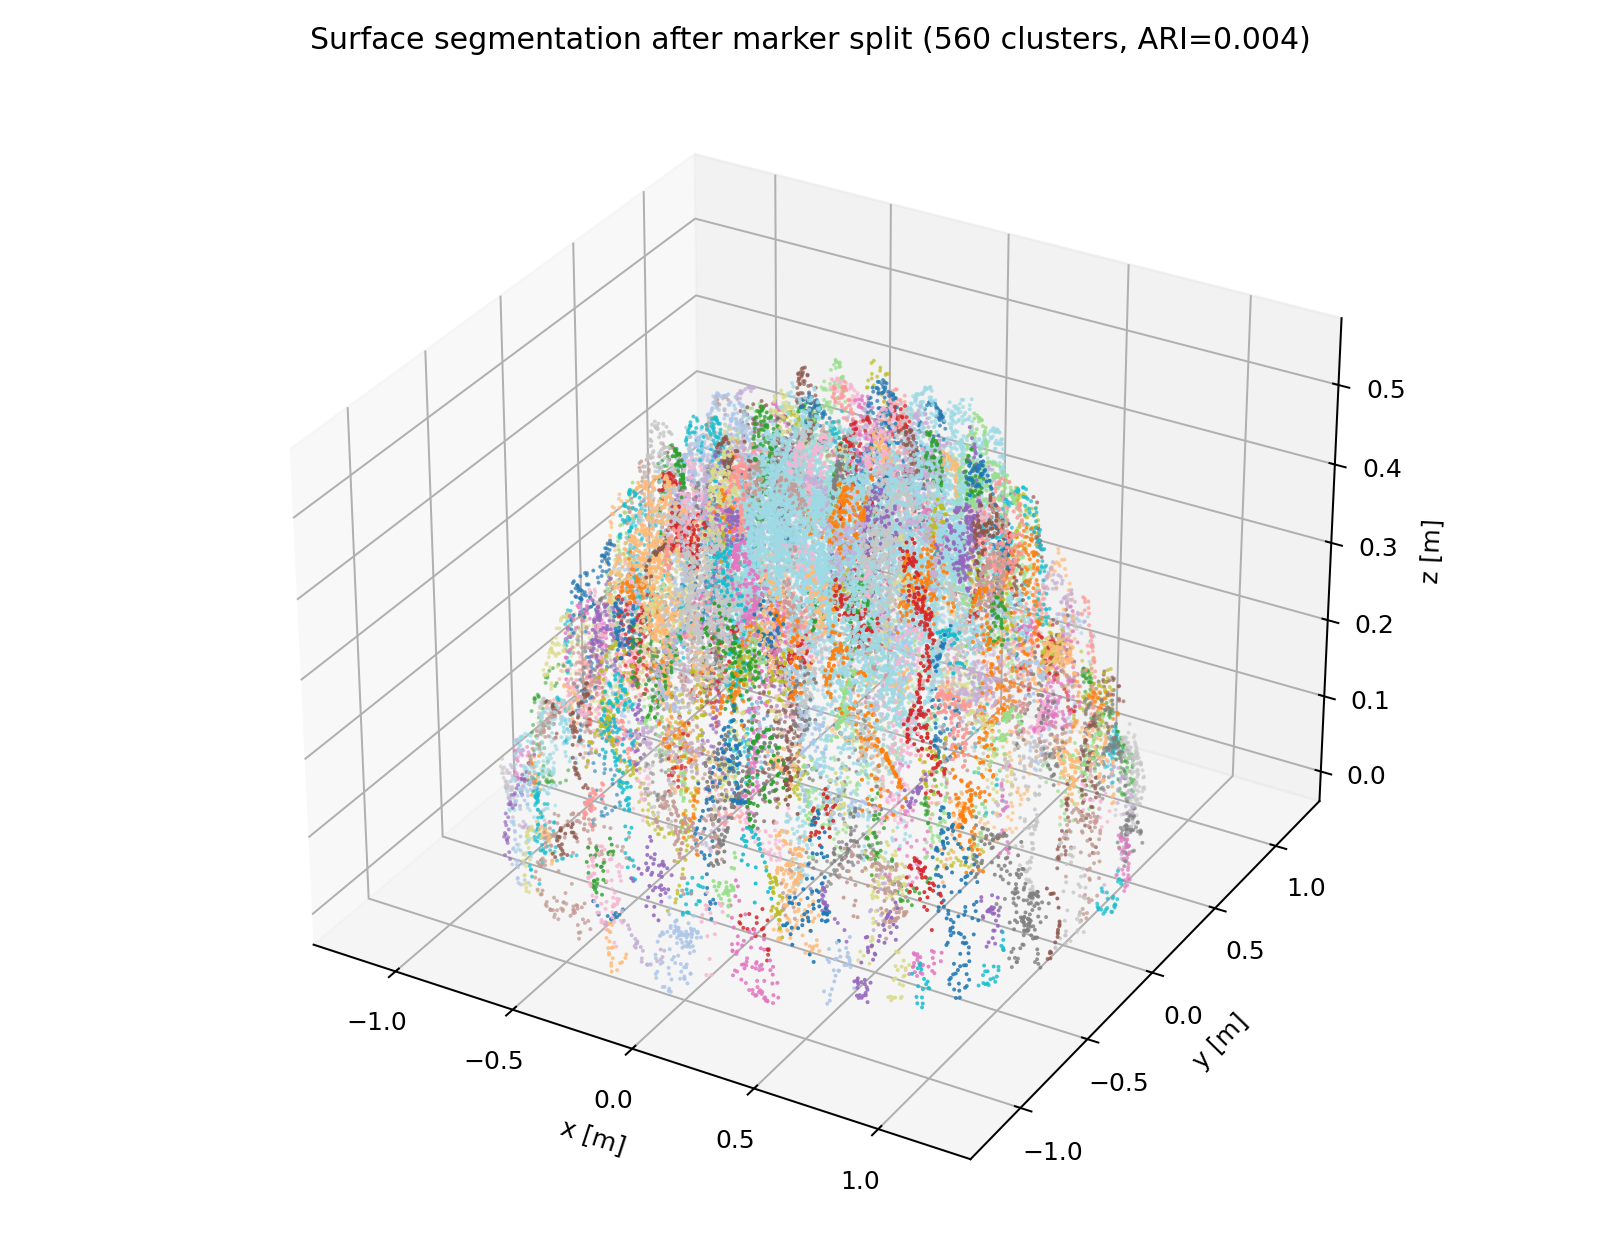
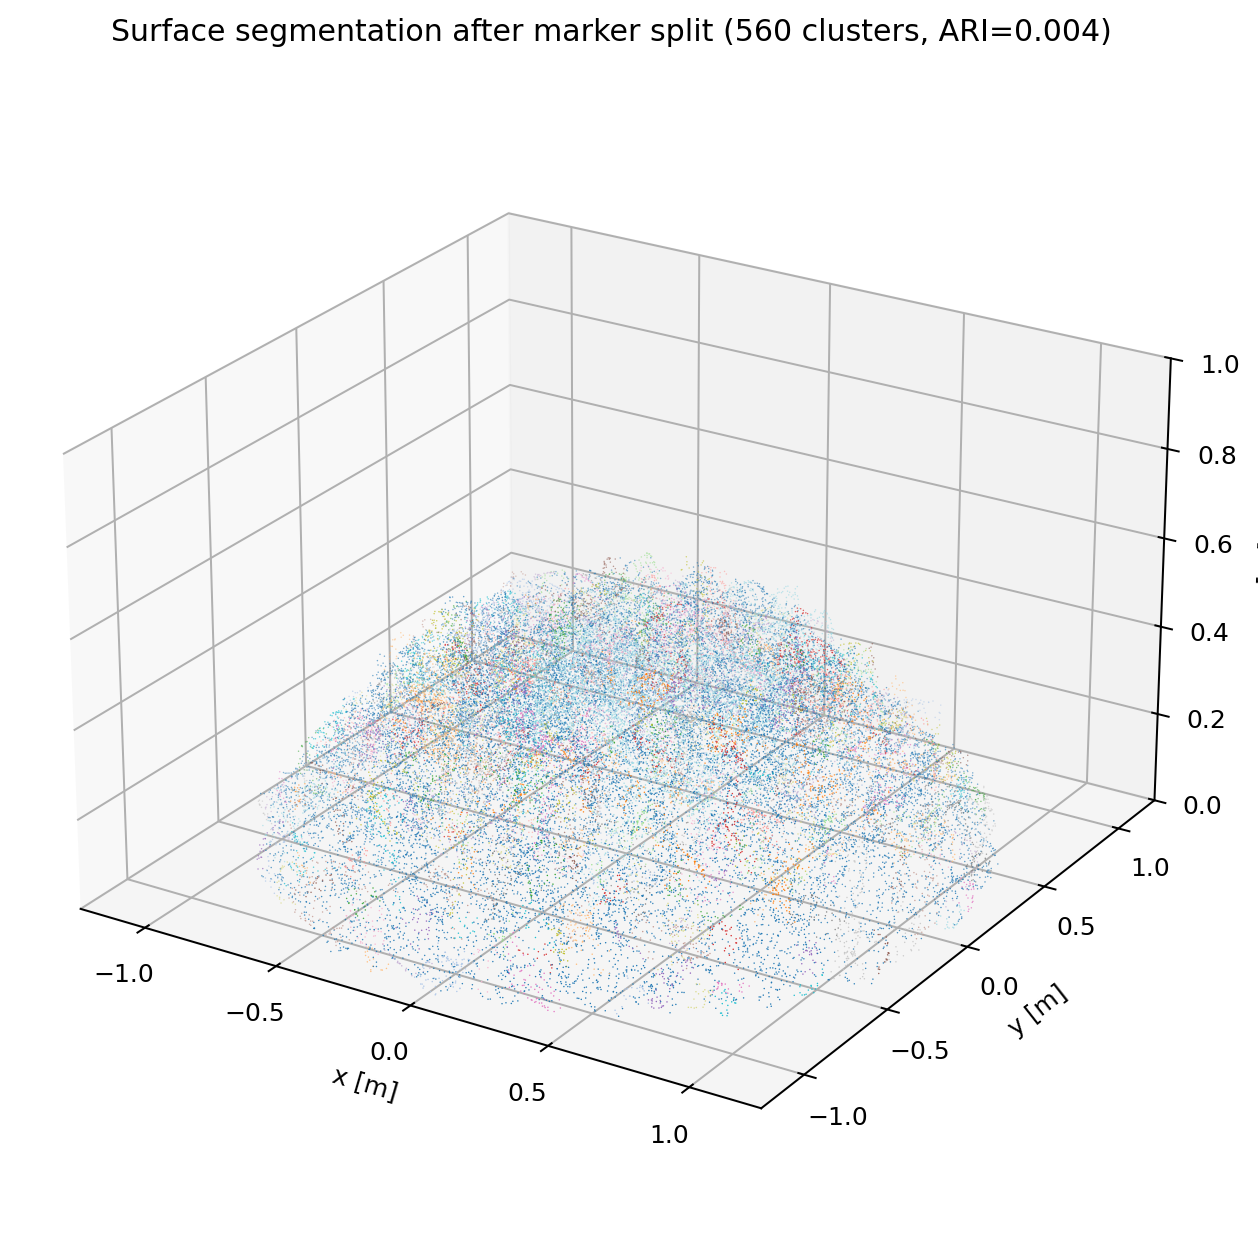
Add exterior surface-envelope scan workflow

diff --git a/scripts/make_exterior_scan_preview_figure.py b/scripts/make_exterior_scan_preview_figure.py
@@ -1,0 +1,148 @@
+from __future__ import annotations
+
+from pathlib import Path
+
+import matplotlib.pyplot as plt
+import numpy as np
+
+
+ROOT = Path(__file__).resolve().parents[1]
+FULL_PATH = ROOT / "data" / "scanned_pointclouds" / "synthetic_rockpile_full_labelled_pointcloud.npz"
+SCAN_PATH = ROOT / "data" / "scanned_pointclouds" / "synthetic_rockpile_exterior_only_scan.npz"
+OUT_PATH = ROOT / "outputs" / "figures" / "synthetic_rockpile_exterior_scan_preview.png"
+SLICE_HALF_WIDTH_M = 0.08
+AXIS_HALF_WIDTH_M = 1.25
+Z_AXIS_MAX_M = 1.25
+
+
+def style_axes(ax) -> None:
+    ax.set_xlim(-AXIS_HALF_WIDTH_M, AXIS_HALF_WIDTH_M)
+    ax.set_ylim(-AXIS_HALF_WIDTH_M, AXIS_HALF_WIDTH_M)
+    ax.set_zlim(0.0, Z_AXIS_MAX_M)
+    ax.set_xticks([-1.0, -0.5, 0.0, 0.5, 1.0])
+    ax.set_yticks([-1.0, -0.5, 0.0, 0.5, 1.0])
+    ax.set_zticks([0.0, 0.5, 1.0])
+    ax.set_box_aspect((2.0 * AXIS_HALF_WIDTH_M, 2.0 * AXIS_HALF_WIDTH_M, Z_AXIS_MAX_M))
+    ax.view_init(elev=23, azim=-58)
+    ax.set_xlabel("x [m]")
+    ax.set_ylabel("y [m]")
+    ax.set_zlabel("z [m]")
+
+
+def style_slice_axes(ax) -> None:
+    ax.set_xlim(-AXIS_HALF_WIDTH_M, AXIS_HALF_WIDTH_M)
+    ax.set_ylim(0.0, Z_AXIS_MAX_M)
+    ax.set_xticks([-1.0, -0.5, 0.0, 0.5, 1.0])
+    ax.set_yticks([0.0, 0.5, 1.0])
+    ax.set_aspect("equal", adjustable="box")
+    ax.grid(True, color="#D0D5DA", linewidth=0.55)
+    ax.set_xlabel("y [m]")
+    ax.set_ylabel("z [m]")
+
+
+def main() -> None:
+    full = np.load(FULL_PATH)
+    scan = np.load(SCAN_PATH)
+
+    points = full["points_xyz"]
+    labels = full["fragment_ids"]
+    scan_points = scan["points_xyz"]
+    scan_labels = scan["fragment_ids"]
+    retained_full_indices = np.unique(scan["exterior_source_indices"])
+    retained_mask = np.zeros(len(points), dtype=bool)
+    retained_mask[retained_full_indices] = True
+
+    rng = np.random.default_rng(15)
+    idx_full = rng.choice(len(points), size=min(45_000, len(points)), replace=False)
+    idx_scan = rng.choice(len(scan_points), size=min(45_000, len(scan_points)), replace=False)
+
+    full_slice = np.abs(points[:, 0]) <= SLICE_HALF_WIDTH_M
+    scan_slice = np.abs(scan_points[:, 0]) <= SLICE_HALF_WIDTH_M
+    retained_slice = full_slice & retained_mask
+    removed_slice = full_slice & ~retained_mask
+    idx_removed = np.where(removed_slice)[0]
+    idx_retained = np.where(retained_slice)[0]
+    idx_scan_slice = np.where(scan_slice)[0]
+    if len(idx_removed) > 12000:
+        idx_removed = rng.choice(idx_removed, 12000, replace=False)
+    if len(idx_retained) > 12000:
+        idx_retained = rng.choice(idx_retained, 12000, replace=False)
+    if len(idx_scan_slice) > 12000:
+        idx_scan_slice = rng.choice(idx_scan_slice, 12000, replace=False)
+
+    fig = plt.figure(figsize=(12.2, 8.0), dpi=180)
+    ax1 = fig.add_subplot(2, 2, 1, projection="3d")
+    ax1.scatter(points[idx_full, 0], points[idx_full, 1], points[idx_full, 2], c=labels[idx_full], s=0.35, cmap="tab20", linewidths=0)
+    ax1.set_title("Original full labelled point cloud", pad=8)
+    style_axes(ax1)
+
+    ax2 = fig.add_subplot(2, 2, 2, projection="3d")
+    ax2.scatter(
+        scan_points[idx_scan, 0],
+        scan_points[idx_scan, 1],
+        scan_points[idx_scan, 2],
+        c=scan_labels[idx_scan],
+        s=0.45,
+        cmap="tab20",
+        linewidths=0,
+    )
+    ax2.set_title("Exterior-only scan after occlusion filtering", pad=8)
+    style_axes(ax2)
+
+    ax3 = fig.add_subplot(2, 2, 3)
+    ax3.scatter(
+        points[idx_retained, 1],
+        points[idx_retained, 2],
+        c="#86A8C8",
+        s=1.0,
+        alpha=0.45,
+        linewidths=0,
+        label="retained exterior source samples",
+    )
+    ax3.scatter(
+        points[idx_removed, 1],
+        points[idx_removed, 2],
+        c="#D84A3A",
+        s=1.8,
+        alpha=0.75,
+        linewidths=0,
+        label="removed hidden/interior source samples",
+    )
+    ax3.set_title(f"Half-cut y-z section at x=0 before filtering (|x| <= {SLICE_HALF_WIDTH_M:.2f} m)")
+    style_slice_axes(ax3)
+    ax3.legend(loc="upper right", fontsize=7, frameon=True)
+
+    ax4 = fig.add_subplot(2, 2, 4)
+    ax4.scatter(
+        scan_points[idx_scan_slice, 1],
+        scan_points[idx_scan_slice, 2],
+        c=scan_labels[idx_scan_slice],
+        s=1.2,
+        cmap="tab20",
+        linewidths=0,
+    )
+    ax4.set_title("Same half-cut section after exterior-only filtering")
+    style_slice_axes(ax4)
+
+    retained_fraction = retained_full_indices.size / len(points)
+    fig.text(
+        0.50,
+        0.022,
+        (
+            "All panels use matched metre scales. Bottom half-cut sections verify the filtering: red full-cloud source "
+            f"samples are not retained by the exterior scan ({retained_fraction:.1%} retained overall)."
+        ),
+        ha="center",
+        va="bottom",
+        fontsize=8,
+        color="#4B5563",
+    )
+    fig.subplots_adjust(left=0.055, right=0.985, top=0.93, bottom=0.075, wspace=0.12, hspace=0.28)
+    OUT_PATH.parent.mkdir(parents=True, exist_ok=True)
+    fig.savefig(OUT_PATH, bbox_inches="tight")
+    plt.close(fig)
+    print(f"saved: {OUT_PATH}")
+
+
+if __name__ == "__main__":
+    main()

diff --git a/scripts/regenerate_exterior_scan.py b/scripts/regenerate_exterior_scan.py
@@ -1,0 +1,112 @@
+from __future__ import annotations
+
+import sys
+from pathlib import Path
+
+import numpy as np
+import pandas as pd
+
+
+ROOT = Path(__file__).resolve().parents[1]
+sys.path.insert(0, str(ROOT / "src"))
+
+from io_utils.export_pointcloud import save_ascii_ply, save_labelled_npz
+from scanning.occlusion_model import exterior_points_from_viewpoints
+from scanning.scan_noise import add_range_noise
+
+
+SCAN_DIR = ROOT / "data" / "scanned_pointclouds"
+TABLE_DIR = ROOT / "outputs" / "tables"
+
+FULL_PATH = SCAN_DIR / "synthetic_rockpile_full_labelled_pointcloud.npz"
+OUT_NPZ = SCAN_DIR / "synthetic_rockpile_exterior_only_scan.npz"
+OUT_PLY = SCAN_DIR / "synthetic_rockpile_exterior_only_scan.ply"
+
+PARAMS = {
+    "angular_resolution_deg": 0.22,
+    "height_envelope_grid_m": 0.035,
+    "height_envelope_tolerance_m": 0.030,
+    "density_keep_fraction": 0.82,
+    "range_noise_sigma_m": 0.0015,
+    "random_seed": 20260606,
+}
+
+
+def main() -> None:
+    full = np.load(FULL_PATH)
+    points = full["points_xyz"]
+    labels = full["fragment_ids"]
+    center = points.mean(axis=0)
+    span = points.max(axis=0) - points.min(axis=0)
+    radius = float(max(span[0], span[1]) * 1.8 + 0.8)
+    z_mid = float(center[2] + 0.35 * span[2])
+    z_top = float(points[:, 2].max() + radius)
+    viewpoints = np.array(
+        [
+            [center[0] + radius, center[1], z_mid],
+            [center[0] - radius, center[1], z_mid],
+            [center[0], center[1] + radius, z_mid],
+            [center[0], center[1] - radius, z_mid],
+            [center[0], center[1], z_top],
+        ],
+        dtype=float,
+    )
+
+    exterior_points, exterior_labels, exterior_indices = exterior_points_from_viewpoints(
+        points,
+        labels,
+        viewpoint_xyz_list=[vp for vp in viewpoints],
+        angular_resolution_deg=PARAMS["angular_resolution_deg"],
+        height_envelope_grid_m=PARAMS["height_envelope_grid_m"],
+        height_envelope_tolerance_m=PARAMS["height_envelope_tolerance_m"],
+    )
+    rng = np.random.default_rng(PARAMS["random_seed"])
+    n_keep = max(1, int(len(exterior_points) * PARAMS["density_keep_fraction"]))
+    keep_indices = rng.choice(len(exterior_points), size=n_keep, replace=False)
+    reduced_points = exterior_points[keep_indices]
+    reduced_labels = exterior_labels[keep_indices]
+    reduced_indices = exterior_indices[keep_indices]
+    reduced_points = add_range_noise(
+        reduced_points,
+        viewpoint_xyz=viewpoints[0],
+        sigma_m=PARAMS["range_noise_sigma_m"],
+        random_seed=PARAMS["random_seed"] + 1,
+    )
+
+    save_labelled_npz(
+        OUT_NPZ,
+        reduced_points,
+        reduced_labels,
+        extra={
+            "exterior_source_indices": reduced_indices.astype(np.int64),
+            "viewpoints_xyz": viewpoints.astype(float),
+            "angular_resolution_deg": np.array([PARAMS["angular_resolution_deg"]], dtype=float),
+            "height_envelope_grid_m": np.array([PARAMS["height_envelope_grid_m"]], dtype=float),
+            "height_envelope_tolerance_m": np.array([PARAMS["height_envelope_tolerance_m"]], dtype=float),
+            "scan_filter_version": np.array(["angular_nearest_plus_xy_height_envelope"]),
+        },
+    )
+    save_ascii_ply(OUT_PLY, reduced_points, reduced_labels)
+
+    summary = pd.DataFrame(
+        [
+            {
+                "n_full_points": int(len(points)),
+                "n_exterior_points_before_density_reduction": int(len(exterior_points)),
+                "n_final_scan_points": int(len(reduced_points)),
+                "n_fragments_full_cloud": int(len(np.unique(labels))),
+                "n_fragments_visible_after_exterior_filter": int(len(np.unique(exterior_labels))),
+                "n_fragments_final_scan": int(len(np.unique(reduced_labels))),
+                **PARAMS,
+                "scan_filter_version": "angular_nearest_plus_xy_height_envelope",
+            }
+        ]
+    )
+    TABLE_DIR.mkdir(parents=True, exist_ok=True)
+    summary.to_csv(TABLE_DIR / "exterior_scan_summary.csv", index=False)
+    print(summary.to_string(index=False))
+    print(OUT_NPZ)
+
+
+if __name__ == "__main__":
+    main()

diff --git a/src/scanning/occlusion_model.py b/src/scanning/occlusion_model.py
@@ -40,11 +40,61 @@ def keep_nearest_by_angular_bin(
     return points[keep_indices], np.asarray(labels, dtype=np.int64)[keep_indices]
 
 
+def keep_xy_height_envelope(
+    points_xyz: np.ndarray,
+    labels: np.ndarray,
+    source_indices: np.ndarray | None = None,
+    grid_resolution_m: float = 0.035,
+    z_tolerance_m: float = 0.030,
+) -> tuple[np.ndarray, np.ndarray, np.ndarray]:
+    """Keep only points close to the upper surface envelope in each XY cell.
+
+    The angular-bin model removes many line-of-sight occlusions, but a point-only
+    ray approximation can still retain samples from interior contact surfaces.
+    A photogrammetric rockpile surface is better represented by the upper
+    height envelope over the pile footprint. This filter keeps only points whose
+    z-coordinate is within ``z_tolerance_m`` of the maximum z in their XY grid
+    cell and returns the corresponding original source indices.
+    """
+
+    points = np.asarray(points_xyz, dtype=float)
+    labels_array = np.asarray(labels, dtype=np.int64)
+    if source_indices is None:
+        source_array = np.arange(len(points), dtype=np.int64)
+    else:
+        source_array = np.asarray(source_indices, dtype=np.int64)
+
+    if len(points) == 0:
+        return points, labels_array, source_array
+
+    origin_xy = points[:, :2].min(axis=0)
+    cells = np.floor((points[:, :2] - origin_xy) / float(grid_resolution_m)).astype(np.int64)
+    keys = cells[:, 0] * 10_000_000 + cells[:, 1]
+    order = np.argsort(keys, kind="mergesort")
+    sorted_keys = keys[order]
+
+    keep = np.zeros(len(points), dtype=bool)
+    start = 0
+    while start < len(order):
+        end = start + 1
+        while end < len(order) and sorted_keys[end] == sorted_keys[start]:
+            end += 1
+        idx = order[start:end]
+        z_max = float(points[idx, 2].max())
+        keep[idx] = points[idx, 2] >= z_max - float(z_tolerance_m)
+        start = end
+
+    kept = np.flatnonzero(keep)
+    return points[kept], labels_array[kept], source_array[kept]
+
+
 def exterior_points_from_viewpoints(
     points_xyz: np.ndarray,
     labels: np.ndarray,
     viewpoint_xyz_list: list[np.ndarray],
     angular_resolution_deg: float = 0.20,
+    height_envelope_grid_m: float | None = 0.035,
+    height_envelope_tolerance_m: float = 0.030,
 ) -> tuple[np.ndarray, np.ndarray, np.ndarray]:
     """Keep points visible from at least one exterior viewpoint.
 
@@ -77,4 +127,14 @@ def exterior_points_from_viewpoints(
         kept_indices.append(np.fromiter((idx for _, idx in nearest.values()), dtype=int))
 
     union_indices = np.unique(np.concatenate(kept_indices))
-    return points[union_indices], labels_array[union_indices], union_indices
+    exterior_points = points[union_indices]
+    exterior_labels = labels_array[union_indices]
+    if height_envelope_grid_m is not None:
+        return keep_xy_height_envelope(
+            exterior_points,
+            exterior_labels,
+            source_indices=union_indices,
+            grid_resolution_m=height_envelope_grid_m,
+            z_tolerance_m=height_envelope_tolerance_m,
+        )
+    return exterior_points, exterior_labels, union_indices

diff --git a/scripts/make_surface_segmentation_split_figure.py b/scripts/make_surface_segmentation_split_figure.py
@@ -1,0 +1,57 @@
+from __future__ import annotations
+
+import csv
+from pathlib import Path
+
+import matplotlib.pyplot as plt
+import numpy as np
+
+
+ROOT = Path(__file__).resolve().parents[1]
+SEG_PATH = ROOT / "data" / "labels" / "synthetic_rockpile_exterior_surface_segmentation.npz"
+METRICS_PATH = ROOT / "outputs" / "tables" / "surface_segmentation_metrics.csv"
+OUT_PATH = ROOT / "outputs" / "figures" / "synthetic_rockpile_surface_segmentation_split.png"
+
+
+def load_metrics() -> dict[str, float]:
+    with METRICS_PATH.open("r", newline="", encoding="utf-8") as f:
+        row = next(csv.DictReader(f))
+    return {key: float(value) for key, value in row.items()}
+
+
+def main() -> None:
+    data = np.load(SEG_PATH)
+    points = data["points_xyz"].astype(np.float32)
+    labels = data["labels_surface"]
+    metrics = load_metrics()
+
+    rng = np.random.default_rng(42)
+    idx = rng.choice(len(points), size=min(45_000, len(points)), replace=False)
+    sample = points[idx]
+    plot_labels = labels[idx]
+
+    fig = plt.figure(figsize=(8.6, 7.1), dpi=180)
+    ax = fig.add_subplot(111, projection="3d")
+    ax.scatter(sample[:, 0], sample[:, 1], sample[:, 2], c=plot_labels, s=0.35, cmap="tab20", linewidths=0)
+    ax.set_title(
+        "Surface segmentation after marker split "
+        f"({int(metrics['n_predicted_clusters'])} clusters, ARI={metrics['adjusted_rand_index']:.3f})"
+    )
+    ax.set_xlabel("x [m]")
+    ax.set_ylabel("y [m]")
+    ax.set_zlabel("z [m]")
+    ax.set_xlim(-1.25, 1.25)
+    ax.set_ylim(-1.25, 1.25)
+    ax.set_zlim(0.0, 1.0)
+    ax.set_box_aspect((2.5, 2.5, 1.55))
+    ax.view_init(elev=24, azim=-58)
+    fig.tight_layout()
+
+    OUT_PATH.parent.mkdir(parents=True, exist_ok=True)
+    fig.savefig(OUT_PATH, bbox_inches="tight")
+    plt.close(fig)
+    print(f"saved: {OUT_PATH}")
+
+
+if __name__ == "__main__":
+    main()